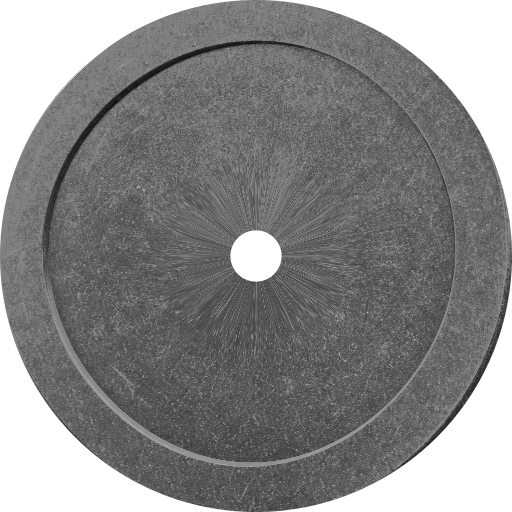
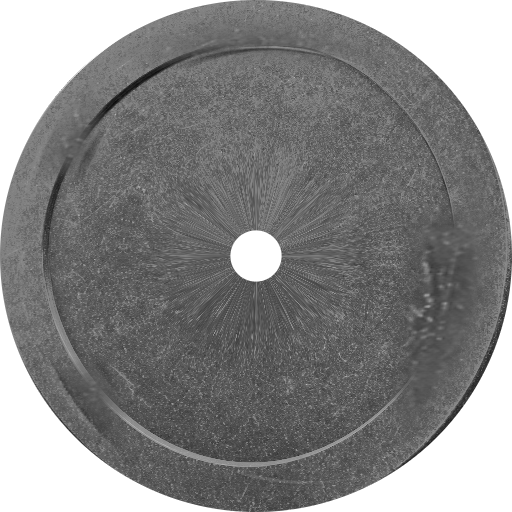
fix(web): register the photographed lock and continuous sleeve

diff --git a/web/app/js/barbell-photo.js b/web/app/js/barbell-photo.js
@@ -4,7 +4,7 @@ import { both, perSideLabel, plateLabel } from "./core.js";
 import { barbellLayout, BORE_RADIUS } from "./barbell-inspector.js";
 import { discAccessibilityLabel } from "./barbell-scene.js";
 import { faceFinish } from "./plate-art.js";
-import { plateThemeColour, plateThemeDescription, plateThemeGeometry } from "./plate-theme.js";
+import { plateThemeColour, plateThemeDescription, plateThemeFamily, plateThemeGeometry } from "./plate-theme.js";
 
 const NS = "http://www.w3.org/2000/svg";
 const WIDTH = 1672, HEIGHT = 941;
@@ -128,11 +128,21 @@ function registerFace(defs, group, { plate, radius, rx, ry }, theme, style, fill
   const finish = faceFinish(plate, theme, style);
   layer.append(photo(facePhoto(finish), { x: -1, y: -1, width: 2, height: 2 }, {
     class: "barbell-plate-face", filter: fillFilter, "data-finish": finish, ...attributes }));
-  const hub = Math.min(75 / radius, .54);
+  const { band, ink, fill } = plateThemeColour(plate, theme, style);
+  const [red, green, blue] = fill.slice(1).match(/../g).map(channel => parseInt(channel, 16));
+  const warm = finish === "rubber" && radius >= 150 && blue > red * 1.3 && blue > green * 1.2;
+  const family = plateThemeFamily(plate, theme, style);
+  const ratio = { bumper: .40, steel: .20, ipf: .20, iron: .24, machined: .22, change: .25 }[family];
+  const hub = Math.min(.55, Math.max(33 / radius, Math.min(ratio, 90 / radius)));
   const dark = ["castIron", "hammertone", "blackSteel"].includes(plateThemeDescription(theme).hubFinish);
-  layer.append(photo("PhotoHub", { x: -hub, y: -hub, width: 2 * hub, height: 2 * hub },
+  if (warm && hub * radius > 75) {
+    // The warm 180 mm insert has a 60 mm recess. Its steel bore liner
+    // continues down to the 50 mm sleeve through the recessed lip.
+    const liner = 75 / radius;
+    layer.append(photo("PhotoHub", { x: -liner, y: -liner, width: 2 * liner, height: 2 * liner }, { class: "barbell-bore-liner" }));
+  }
+  layer.append(photo(warm ? "PhotoHubWarm" : "PhotoHub", { x: -hub, y: -hub, width: 2 * hub, height: 2 * hub },
     { class: "barbell-plate-hub", ...(dark ? { style: "filter:brightness(.58)" } : {}) }));
-  const { band, ink } = plateThemeColour(plate, theme, style);
   if (band) layer.append(svgElement("circle", { r: .91, fill: "none", stroke: band, "stroke-width": .027 }));
   if (plateThemeDescription(theme).details?.includes("hubRing")) {
     layer.append(svgElement("circle", { r: hub * 1.02, fill: "none", stroke: ink, "stroke-width": .016 }));
@@ -194,6 +204,42 @@ function cylinder(root, name, part, from, to, radius, dark = false) {
     class: `barbell-${part}`, transform: `translate(${from.x} ${from.y}) rotate(${Math.atan2(dy, dx) * 180 / Math.PI})`,
     ...(dark ? { style: "filter:brightness(.45)" } : {}),
   }));
+}
+
+// Study 03's lock has a closed lever and a punched-through aperture. Its
+// near opening and the plate-side end of the lock are independently registered.
+function fittedLock(art, rear, side, onSleeve) {
+  const width = 450 * rear.scale * .2574, height = 450 * rear.scale * .2475;
+  const group = svgElement("g", { transform: `translate(${rear.x} ${rear.y}) matrix(${-side} ${side > 0 ? .23 : 0} 0 1 0 0)` });
+  if (onSleeve) {
+    // The inside wall under the closed lock is in shadow; the continuous
+    // chrome is overlaid up to the front lip after the clamp is seated.
+    group.append(svgElement("ellipse", { cx: -.66 * width, cy: .109 * height,
+      rx: .124 * width, ry: .257 * height, fill: "#171512" }));
+  }
+  group.append(photo(onSleeve ? "PhotoLock" : "PhotoCollar", { x: -.781 * width, y: -.416 * height, width, height },
+    { class: side < 0 ? "barbell-collar-near" : "barbell-collar" }));
+  art.append(group);
+  return { x: rear.x + side * .662 * width, y: rear.y + .109 * height, scale: rear.scale };
+}
+
+// Repaint the same uninterrupted sleeve photo as far as the foreground bore.
+// The ellipse ends inside the opening; the steel has no square cut across it.
+function exposeSleeve(art, defs, sleeve, tip, entry, id, radius, part = "exposed-sleeve") {
+  if (entry.x <= tip.x) return;
+  const dx = entry.x - tip.x, dy = entry.y - tip.y, length = Math.hypot(dx, dy);
+  const r = radius * entry.scale;
+  const clip = svgElement("clipPath", { id: id + "-entry" });
+  clip.append(svgElement("path", {
+    transform: `translate(${tip.x} ${tip.y}) rotate(${Math.atan2(dy, dx) * 180 / Math.PI})`,
+    d: `M -30 ${-r * 1.25} L ${length} ${-r} A ${r * FACE_RATIO} ${r} 0 0 1 ${length} ${r} L -30 ${r * 1.25} Z`,
+  }));
+  defs.append(clip);
+  const foreground = svgElement("g", { "clip-path": `url(#${clip.id})` });
+  const continuation = sleeve.cloneNode(false);
+  continuation.setAttribute("class", "barbell-" + part);
+  foreground.append(continuation);
+  art.append(foreground);
 }
 
 function drawPlate(art, defs, d, style, theme, filter, id) {
@@ -277,7 +323,7 @@ export function photographicBar(solution, style, explode = false, theme = "custo
   };
   if (!exploded) {
     hardware("PhotoSleeve", "sleeve", bar.shoulderEnd, end, bar.sleeveRadius);
-    if (collar.length) hardware("PhotoCollar", "collar", collar.right, collar.right + collar.length, collar.radius);
+    if (collar.length) fittedLock(art, point(collar.right), 1, collar.right < end);
     paintSide(1);
     hardware("PhotoShoulder", "shoulder", bar.shaftHalfLength, bar.shoulderEnd, bar.shoulderRadius);
   }
@@ -290,13 +336,21 @@ export function photographicBar(solution, style, explode = false, theme = "custo
   // must never sprout an extension made out of an SVG cylinder.
   const outer = discs.filter(d => d.side < 0).at(-1);
   const tip = point(-end);
-  if (outer && !exploded) cylinder(art, "PhotoSleeve", "exposed-sleeve", tip, point(outer.worldFront), bar.sleeveRadius);
+  let entry = outer && !exploded ? point(outer.worldFront) : null;
+  const sleeve = art.querySelector(".barbell-sleeve-near");
+  if (entry && collar.length) {
+    exposeSleeve(art, defs, sleeve, tip, entry, id + "-under-lock", bar.sleeveRadius, "sleeve-under-lock");
+  }
   if (collar.length) {
     if (exploded) {
-      const anchor = outer.x - outer.rx - 24, y = outer.y + (outer.x - anchor) * scene.slope;
-      cylinder(art, "PhotoCollar", "collar-near", { x: anchor - 44, y: y + 44 * scene.slope, scale: 1 }, { x: anchor, y, scale: 1 }, collar.radius);
-    } else hardware("PhotoCollar", "collar-near", collar.left - collar.length, collar.left, collar.radius);
+      const right = outer.x - outer.rx - 24, y = outer.y + (outer.x - right) * scene.slope;
+      const h = collar.radius * 2.4, w = h * 375 / 384;
+      art.append(photo("PhotoCollar", { x: right - w, y: y - h / 2, width: w, height: h }, { class: "barbell-collar-near" }));
+    } else {
+      entry = fittedLock(art, point(collar.left), -1, collar.left > -end);
+    }
   }
+  if (entry) exposeSleeve(art, defs, sleeve, tip, entry, id, bar.sleeveRadius);
   const r = bar.sleeveRadius * tip.scale;
   // When an exploded plate floats in front of the sleeve tip, its own bore
   // and photographed face must occlude that cap.

diff --git a/web/app/sw.js b/web/app/sw.js
@@ -42,6 +42,8 @@ const ASSETS = [
   "assets/photo/PhotoEdgeIron.png",
   "assets/photo/PhotoHub.png",
   "assets/photo/PhotoBrand.png",
+  "assets/photo/PhotoHubWarm.png",
+  "assets/photo/PhotoLock.png",
   "assets/photo/PhotoMark45lb.png",
   "assets/photo/PhotoMark20kg.png",
   "assets/photo/PhotoMark15kg.png",

diff --git a/web/tools/export-astra-equipment.py b/web/tools/export-astra-equipment.py
@@ -25,7 +25,7 @@ def main():
     parts = ["PhotoFace" + finish for finish in
              ("Rubber", "BlackRubber", "Gloss", "Coated", "Iron", "Hammertone", "Machined")]
     parts += ["PhotoEdge" + finish for finish in ("Rubber", "Coated", "Iron")]
-    parts += ["Photo" + part for part in ("Brand", "Mark45lb", "Mark20kg", "Mark15kg", "Hub", "Shaft", "Sleeve", "Shoulder", "Collar", "Endcap")]
+    parts += ["Photo" + part for part in ("Lock", "HubWarm", "Brand", "Mark45lb", "Mark20kg", "Mark15kg", "Hub", "Shaft", "Sleeve", "Shoulder", "Collar", "Endcap")]
     for part in parts:
         export(part, OUTPUT / "photo" / (part + ".png"))
 
